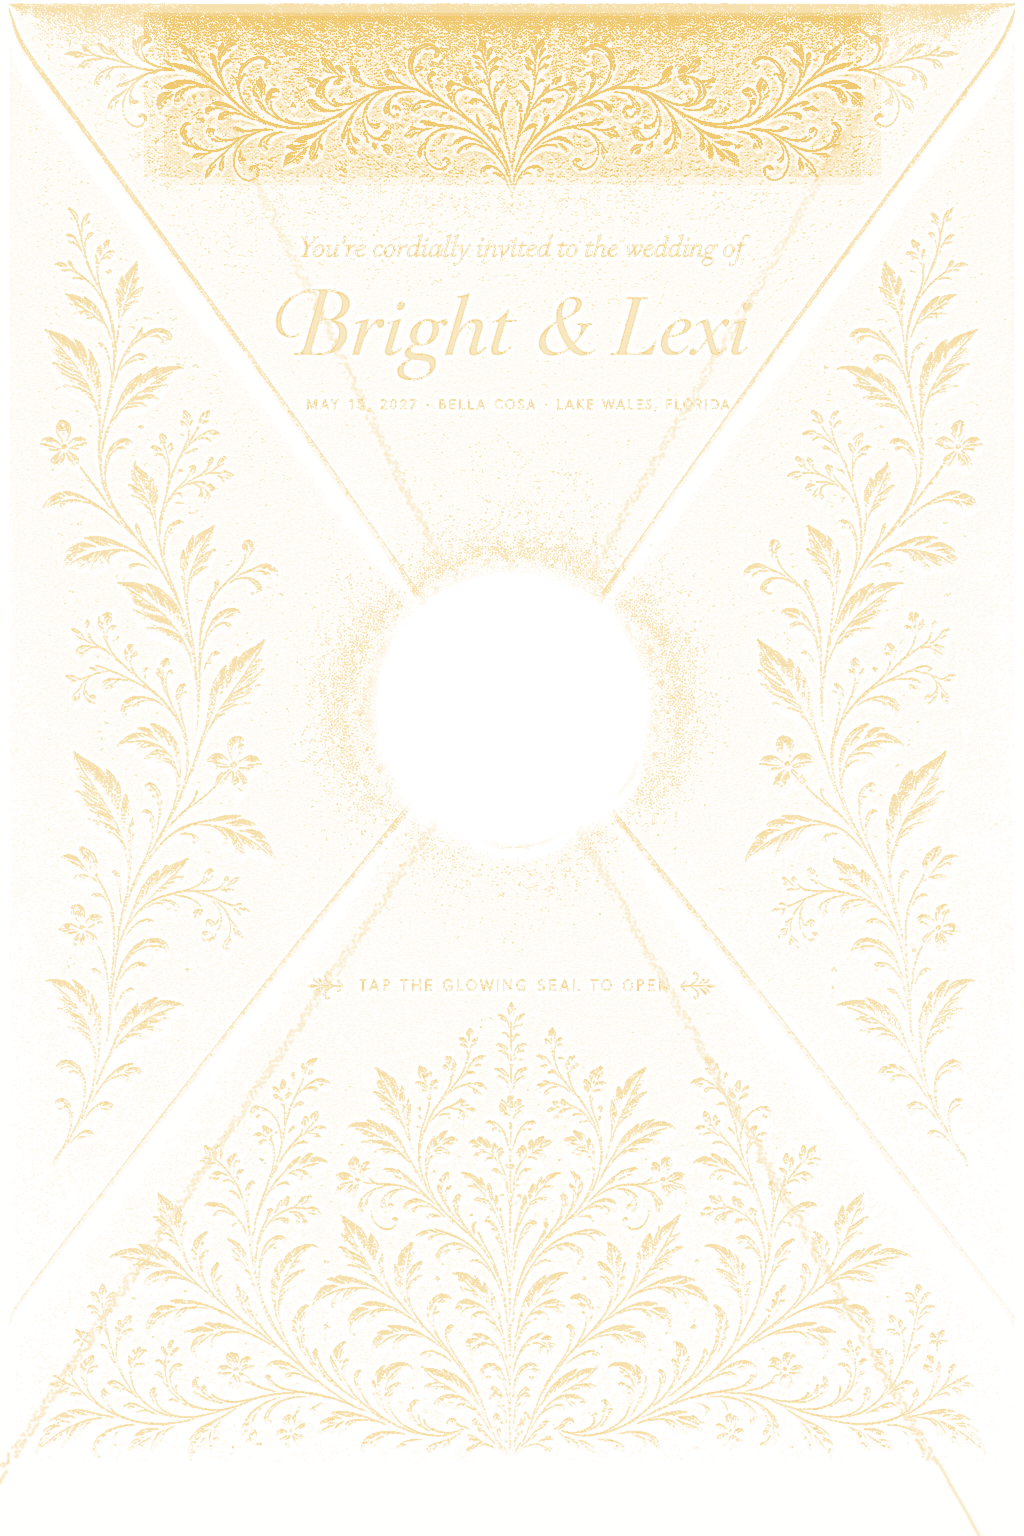
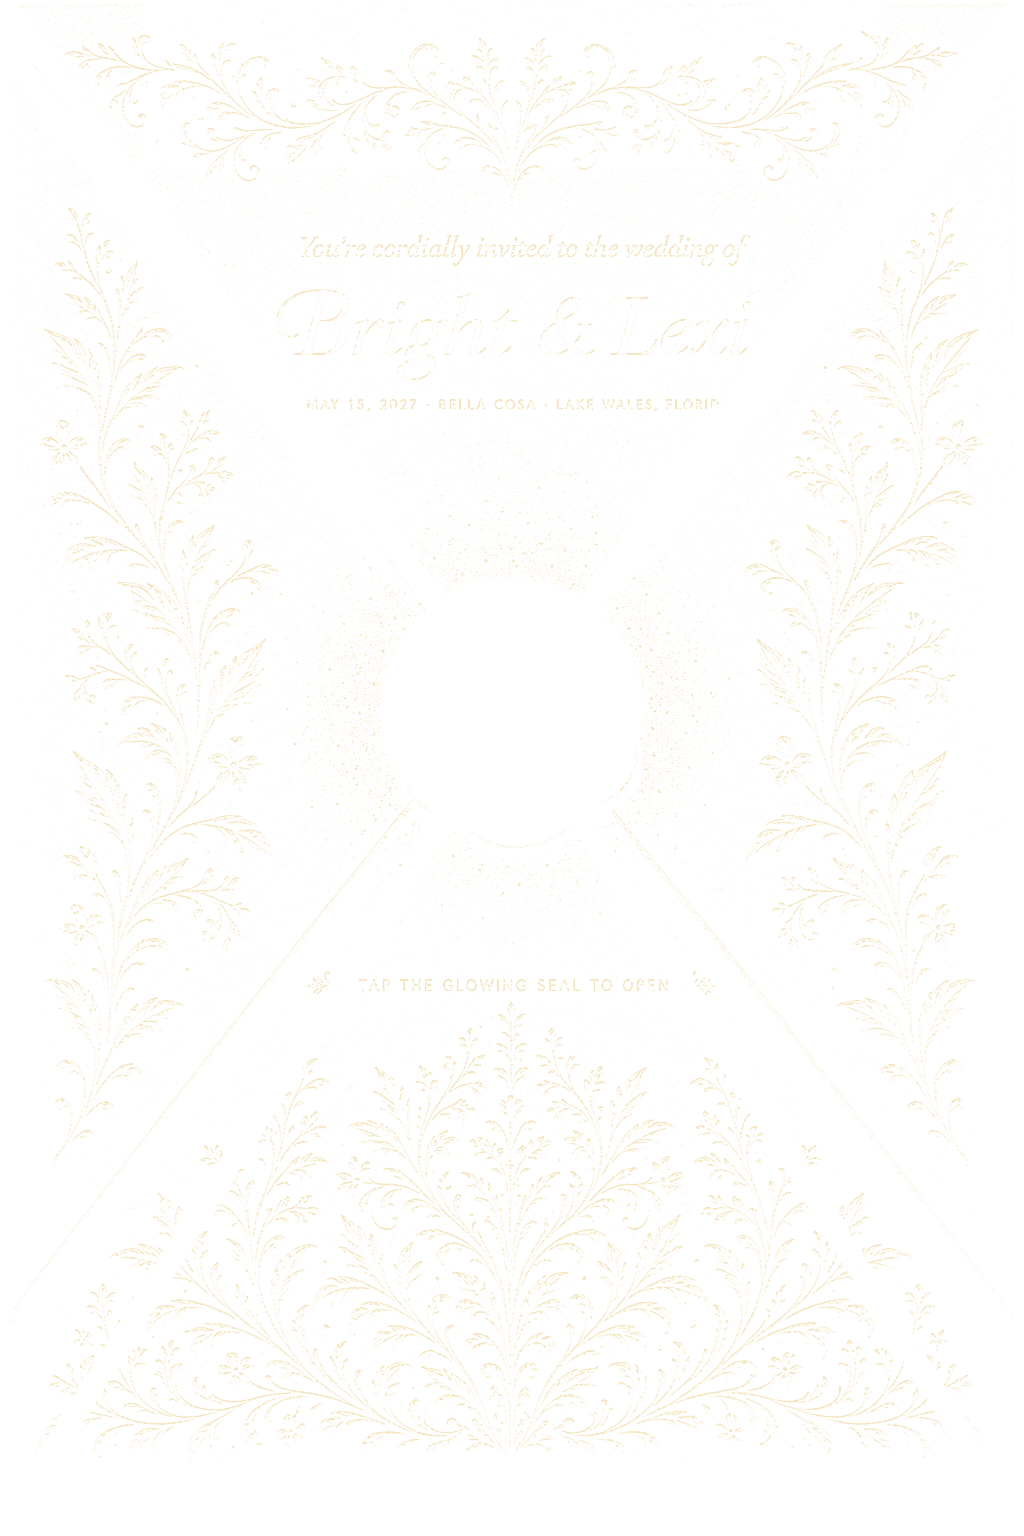
Fix weird top glow and remove misaligned crease lines
Rebuild the floral glow from emboss ridges only: kill the rectangular top slab, and suppress glow in the diagonal crease corridors so crease lips are not lit as offset laser lines.

diff --git a/app/globals.css b/app/globals.css
@@ -414,25 +414,15 @@
 
   .envelope-floral-glow.is-lit {
     opacity: 1;
-    filter: brightness(1.22) saturate(1.1);
+    /* Modest — emboss ridges only, no fog bloom */
+    filter: brightness(1.06) saturate(1.04);
     -webkit-mask-size: 300% 300%;
     mask-size: 300% 300%;
   }
 
-  .envelope-floral-glow-face {
-    background-repeat: no-repeat;
-    background-position: center center;
-    background-size: 100% 100%;
-    opacity: 0;
-    mix-blend-mode: screen;
-    z-index: 2;
-    filter: none;
-    transition: opacity calc(var(--intro-glow, 4500ms) * 0.5) cubic-bezier(0.22, 1, 0.36, 1);
-  }
-
   .envelope-floral-glow-face.is-lit {
     opacity: 1;
-    filter: brightness(1.22) saturate(1.1);
+    filter: brightness(1.06) saturate(1.04);
   }
 
   /* Do not brighten the whole envelope paper on click */
